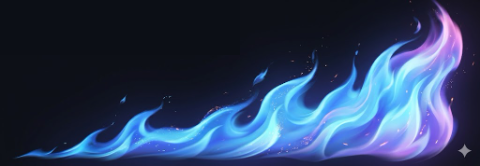
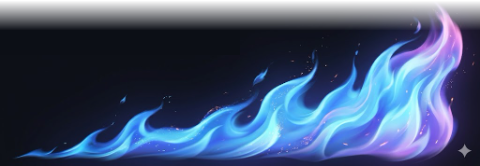
Fix flame graph top cutoff by adding alpha gradient to image

Changed region(s): [[0.0, 0.0, 1.0, 0.1807]]

diff --git a/index.html b/index.html
@@ -16,7 +16,7 @@
   <link rel="preconnect" href="https://fonts.googleapis.com">
   <link rel="preconnect" href="https://fonts.gstatic.com" crossorigin>
   <link href="https://fonts.googleapis.com/css2?family=Orbitron:wght@400;700;900&family=Noto+Sans+JP:wght@300;400;500;700&display=swap" rel="stylesheet">
-  <link rel="stylesheet" href="css/index.css?v=133">
+  <link rel="stylesheet" href="css/index.css?v=134">
 </head>
 <body>
   <!-- プレイヤー登録モーダル -->
@@ -107,8 +107,8 @@
               <span class="power-value accent-cyan" id="powerValueDisplay">0 <span style="font-size: 0.6em; color: var(--text-muted);">EXP</span></span>
             </div>
             <div class="flame-graph-container" style="position: relative;">
-              <img src="assets/ui/static_flame.png" class="static-flame-img" alt="" style="opacity: 0.2; position: absolute; top: 0; left: 0; width: 100%; height: 140px; object-fit: contain; object-position: bottom; filter: grayscale(100%); pointer-events: none;" />
-              <img src="assets/ui/static_flame.png" class="static-flame-img active-flame" alt="Flame Graph" style="position: relative; z-index: 1;" />
+              <img src="assets/ui/static_flame.png?v=2" class="static-flame-img" alt="" style="opacity: 0.2; position: absolute; top: 0; left: 0; width: 100%; height: 140px; object-fit: fill; object-position: bottom; filter: grayscale(100%); pointer-events: none;" />
+              <img src="assets/ui/static_flame.png?v=2" class="static-flame-img active-flame" alt="Flame Graph" style="position: relative; z-index: 1;" />
               <canvas id="powerCanvas" class="flame-canvas" style="z-index: 2;"></canvas>
               <div class="graph-labels">
                 <span id="flameMinLabel">0</span><span id="flameMidLabel">5000</span><span id="flameMaxLabel">10000</span>

diff --git a/css/index.css b/css/index.css
@@ -646,8 +646,6 @@ body {
   position: relative;
   border-bottom: 1px solid var(--border-subtle);
   padding-bottom: 5px;
-  -webkit-mask-image: linear-gradient(to bottom, transparent 0%, black 15%, black 100%);
-  mask-image: linear-gradient(to bottom, transparent 0%, black 15%, black 100%);
 }
 
 .static-flame-img {
